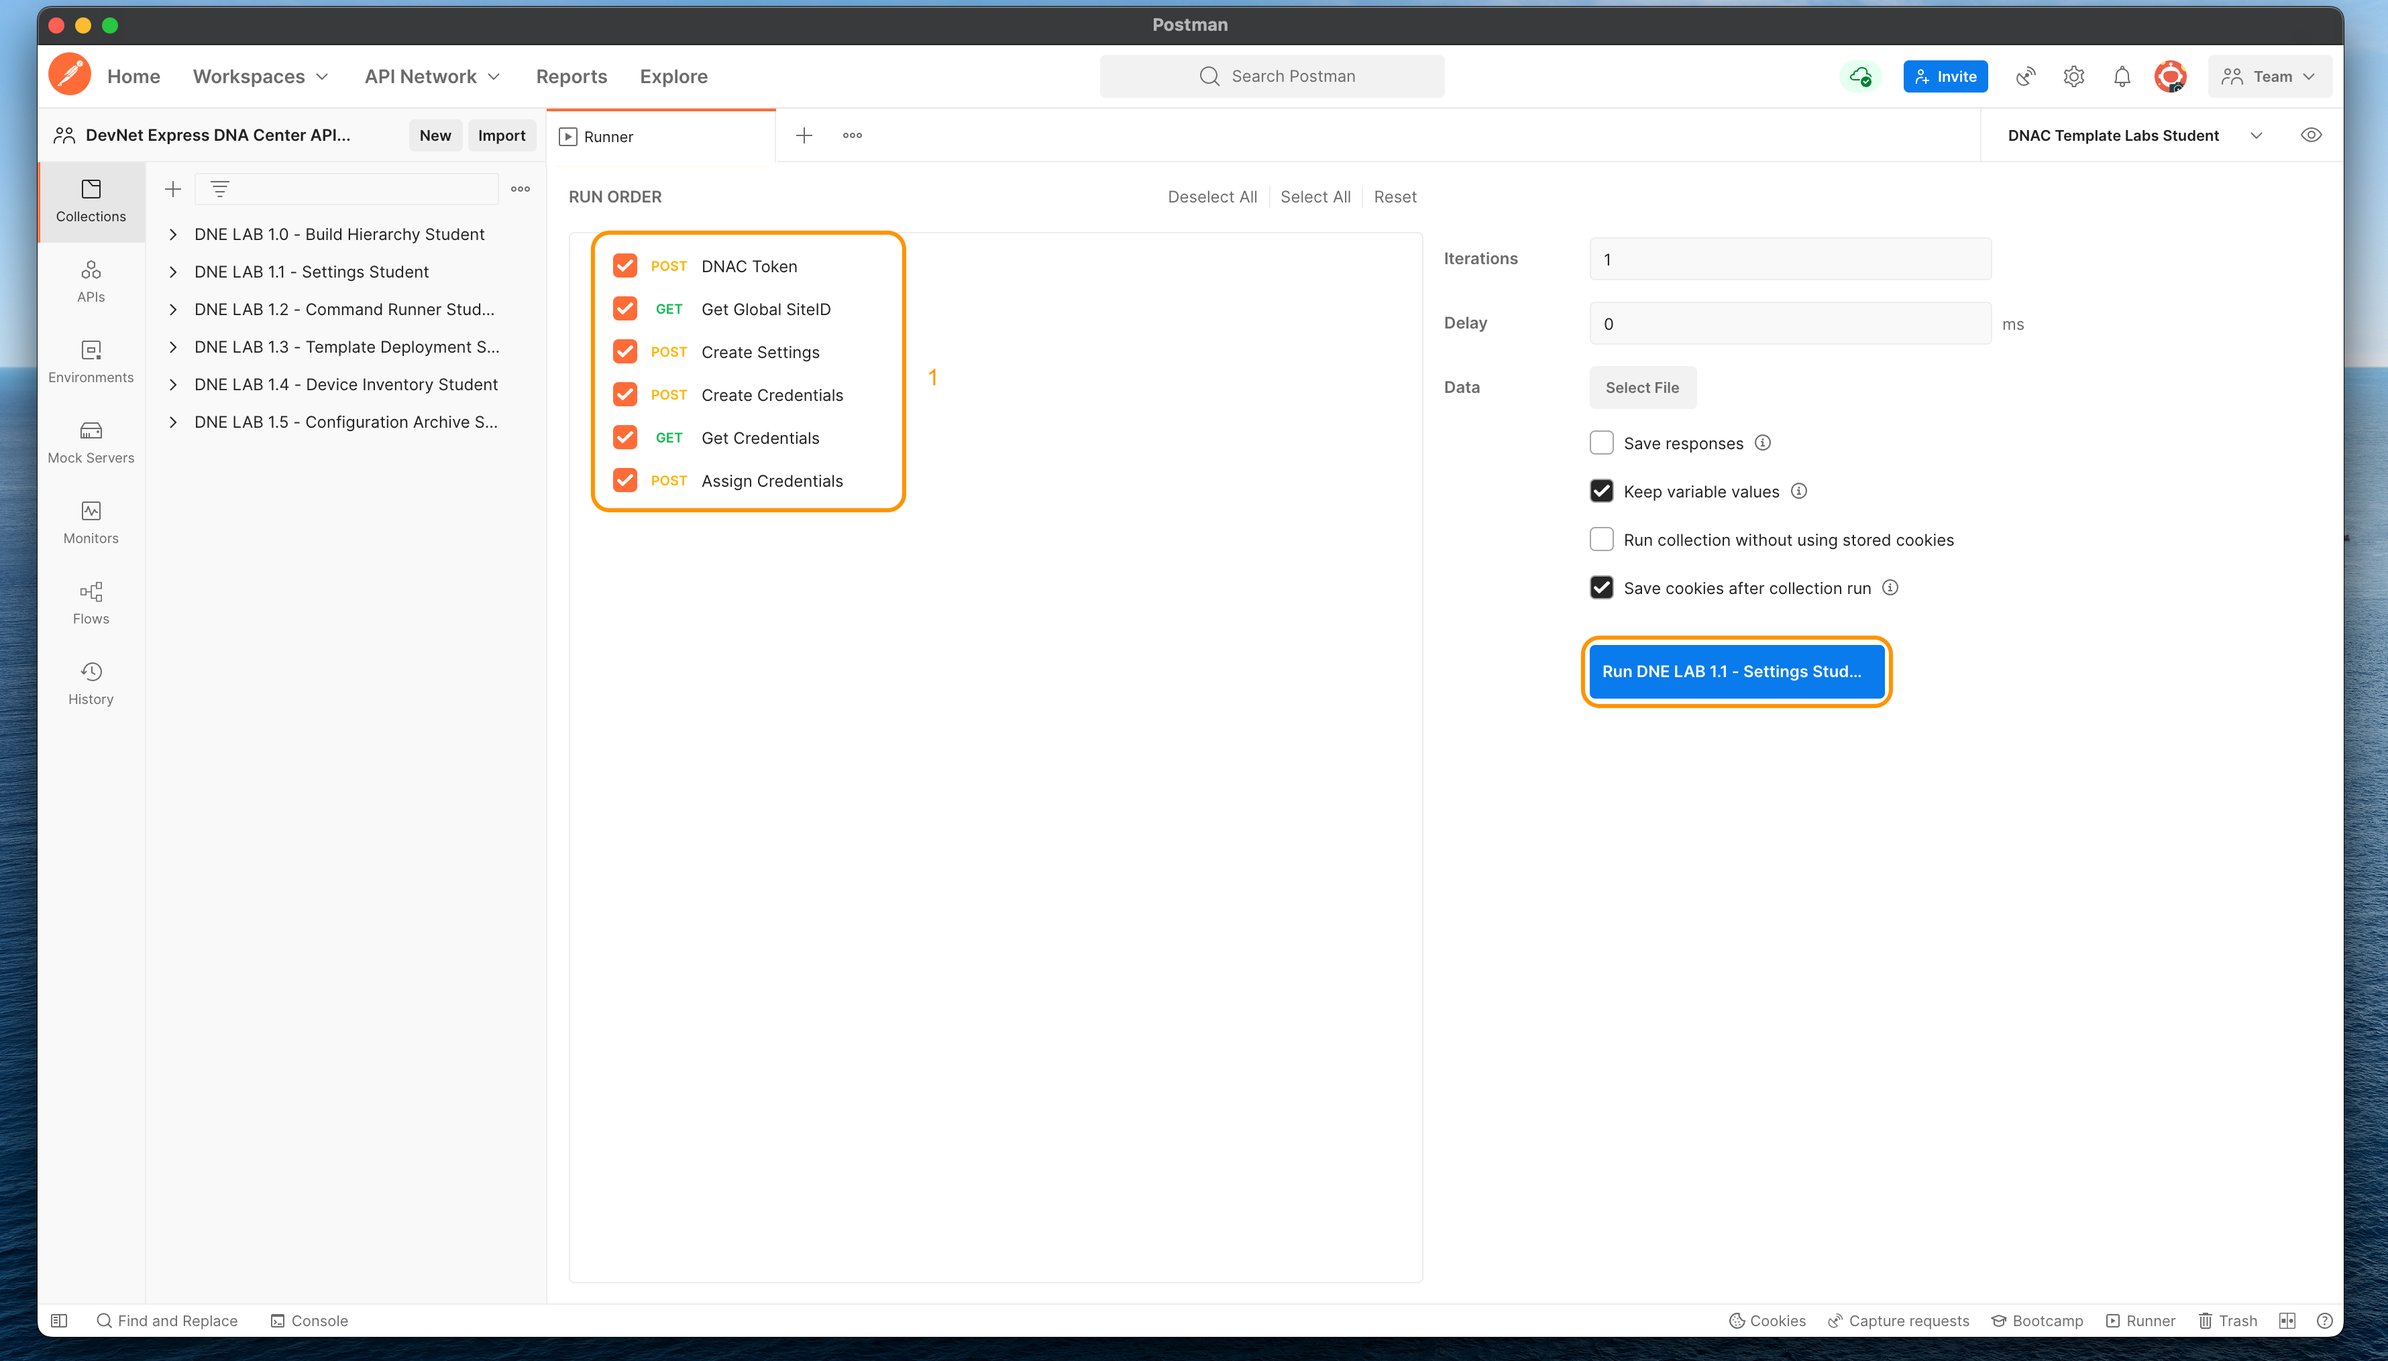
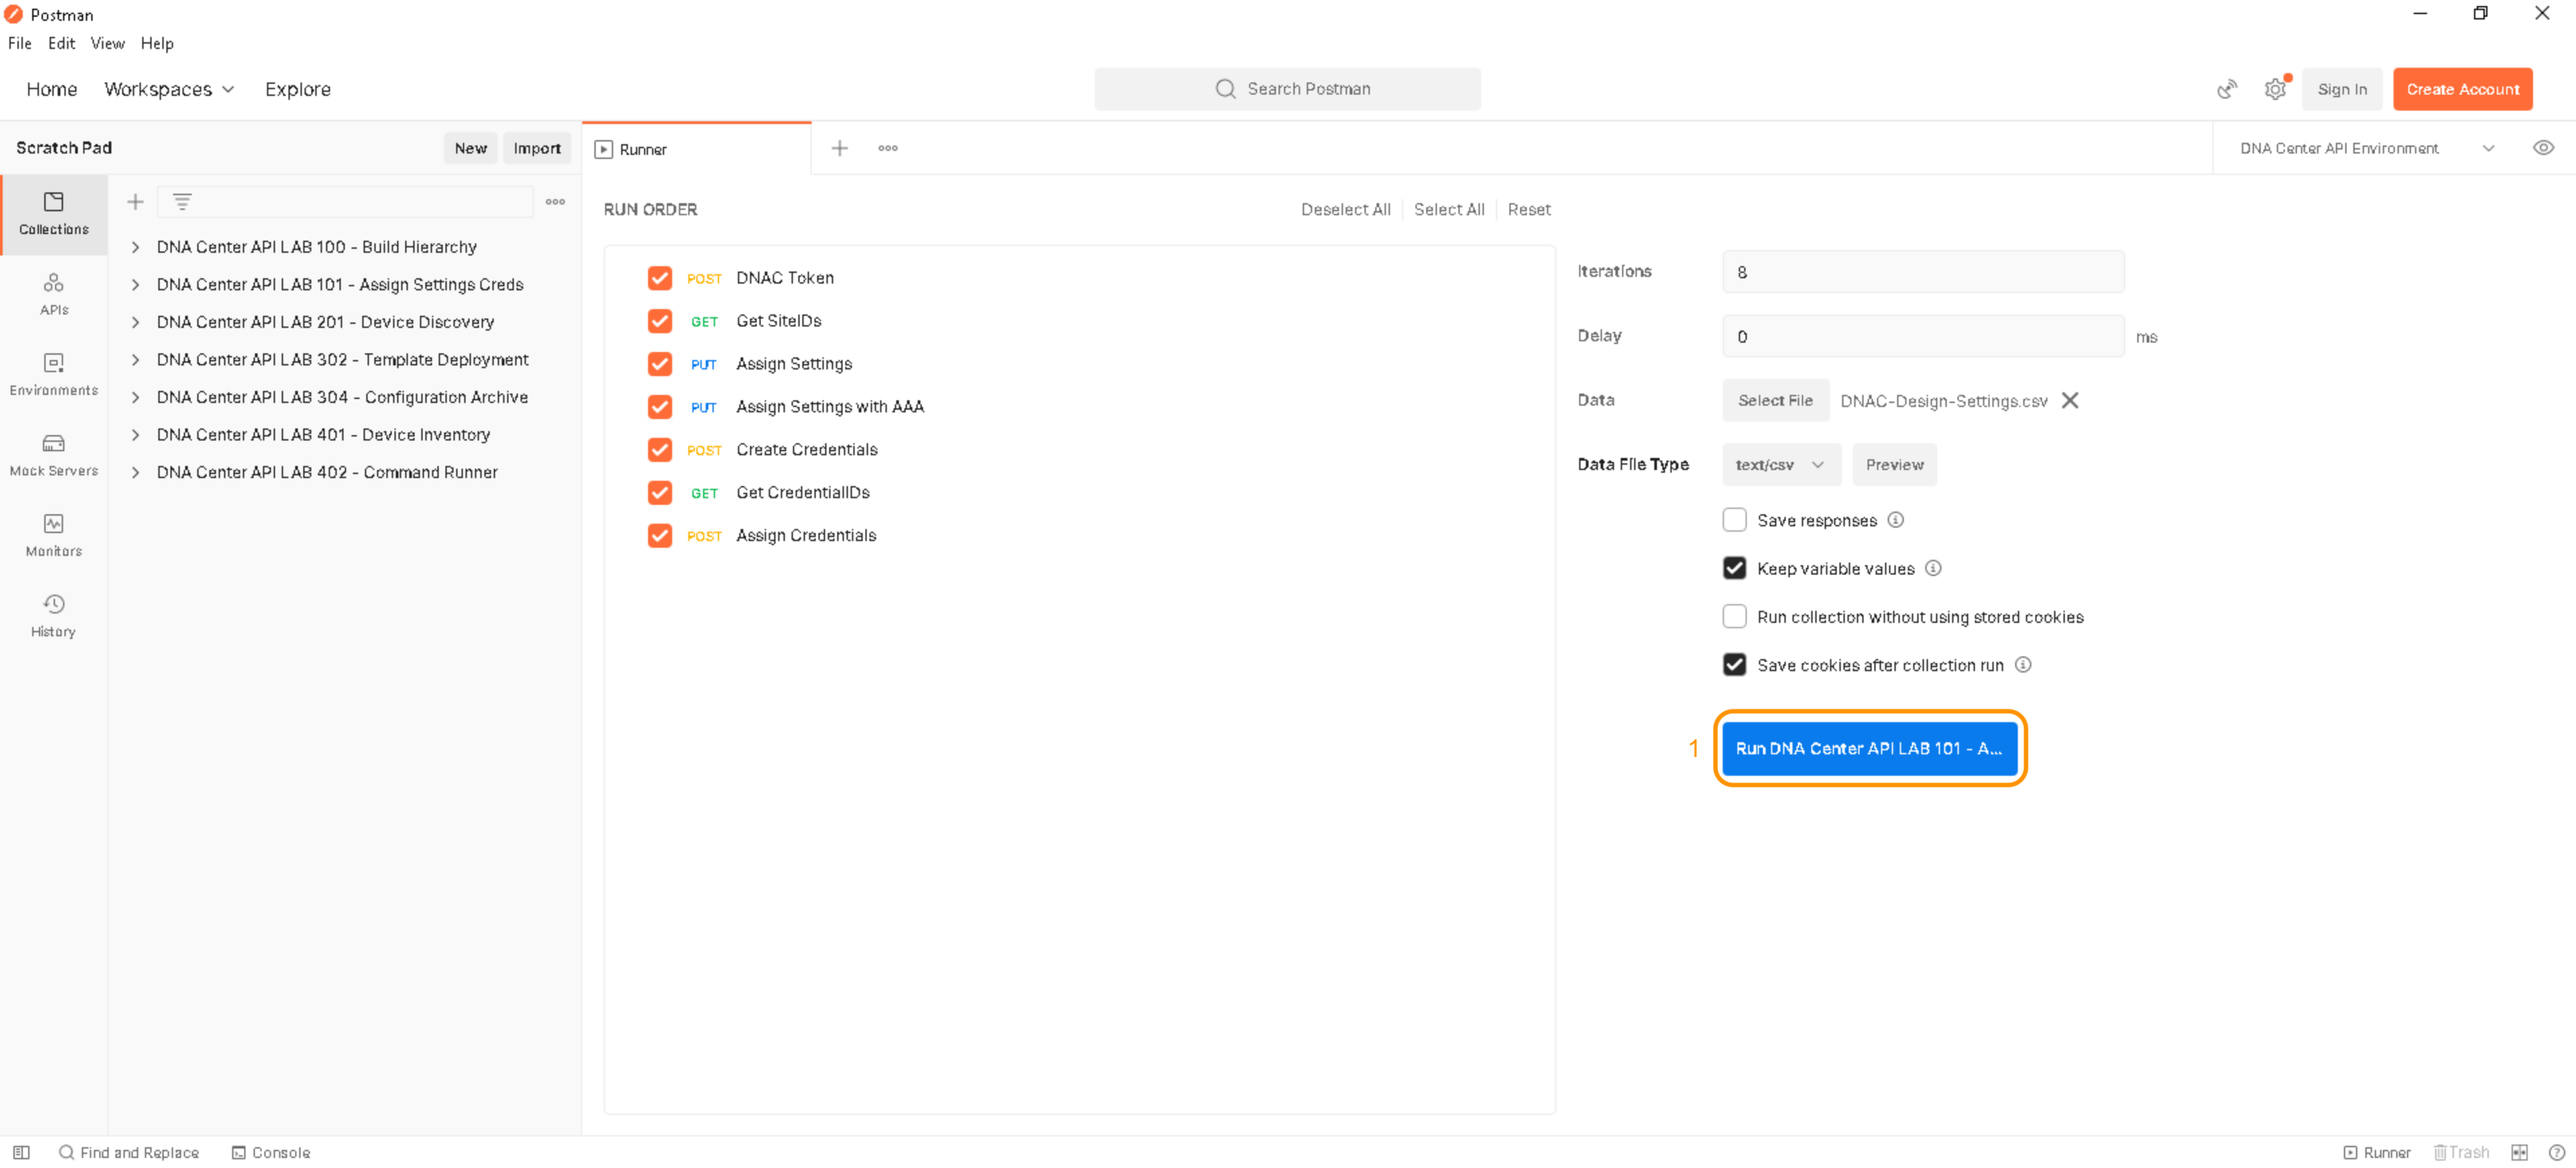
image changes

diff --git a/LABS/LAB9-Rest-API-Orchestration/module3-settings.md b/LABS/LAB9-Rest-API-Orchestration/module3-settings.md
@@ -46,13 +46,16 @@ Follow these steps:
       ![json](./images/Postman-Collection-Settings.png?raw=true "Import JSON")
 2. To run the collection do the following:
    1. Ensure all the sub-components of the `Runner` are selected
-   2. On the right under data, click *select* to browse and select the CSV
-   3. Click  the `Run DNA Center API LAB 101 - Assign Settings Creds` button
+   2. On the right under data, click *select* 
+   3. Browse and select the CSV using explorer
+   4. Click Open to select the file to be used
+      ![json](./images/Postman-Collection-Settings-Run-CSV.png?raw=true "Import JSON")
+   5. Click  the `Run DNA Center API LAB 101 - Assign Settings Creds` button
       ![json](./images/Postman-Collection-Settings-Runner.png?raw=true "Import JSON")
 3. The following summary will slowly appear as the collection is processed
    ![json](./images/Postman-Collection-Settings-Summary.png?raw=true "Import JSON")
 
-## Verifying Student Settings Assignment
+## Verifying Settings Assignment
 To verify that the settings were assigned successfully we will inspect the site in DNA Center.
 
 Follow these steps:
@@ -65,8 +68,12 @@ Follow these steps:
 ![json](./images/DNAC-Menu.png?raw=true "Import JSON")
 4. Select `Design>Network Settings` from the menu to continue.
 ![json](./images/DNAC-Menu-Settings.png?raw=true "Import JSON")
-5. Expand the Hierarchy on the left to show your specific `Area` select it and scroll through the settings.
-![json](./images/DNAC-Settings-Student-Verify.png?raw=true "Import JSON")
+5. Expand the Hierarchy on the left to show all specific `Area` select it and scroll through the settings.
+![json](./images/DNAC-Settings-Verify1.gif?raw=true "Import JSON")
+5. Expand the Hierarchy on the left to show all specific `Area` select it and scroll through the credentials.
+![json](./images/DNAC-Settings-Verify2.gif?raw=true "Import JSON")
+5. Expand the Hierarchy on the left to show all specific `Area` select it and scroll through the telemetry settings.
+![json](./images/DNAC-Settings-Verify3.gif?raw=true "Import JSON")
 
 ## Summary
 At this point we have assigned settings, credentials, and telemetry settings to the Hierarchy utilizing environment variables and REST-API's within the collection runner. 
